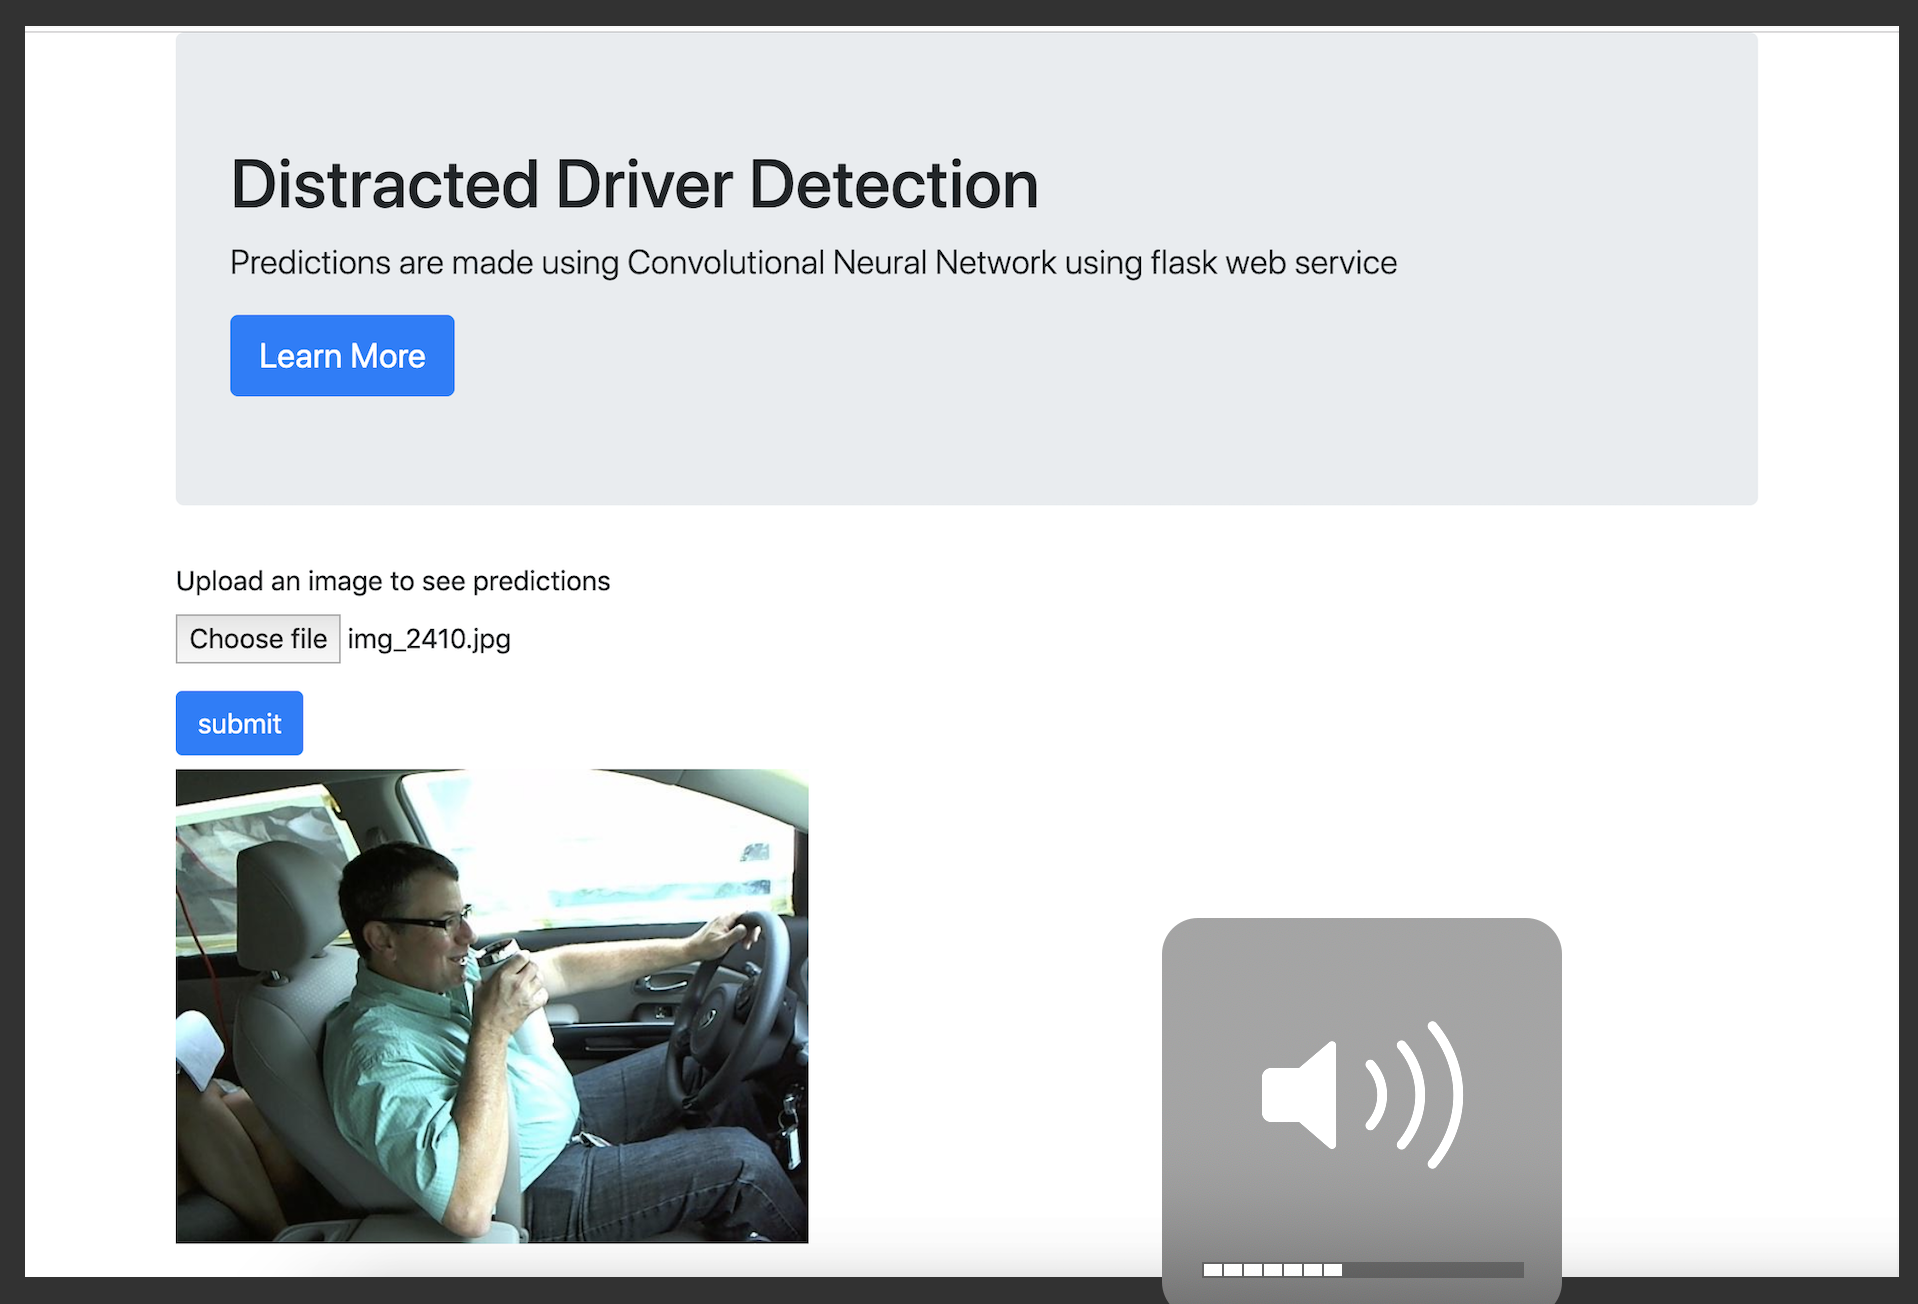
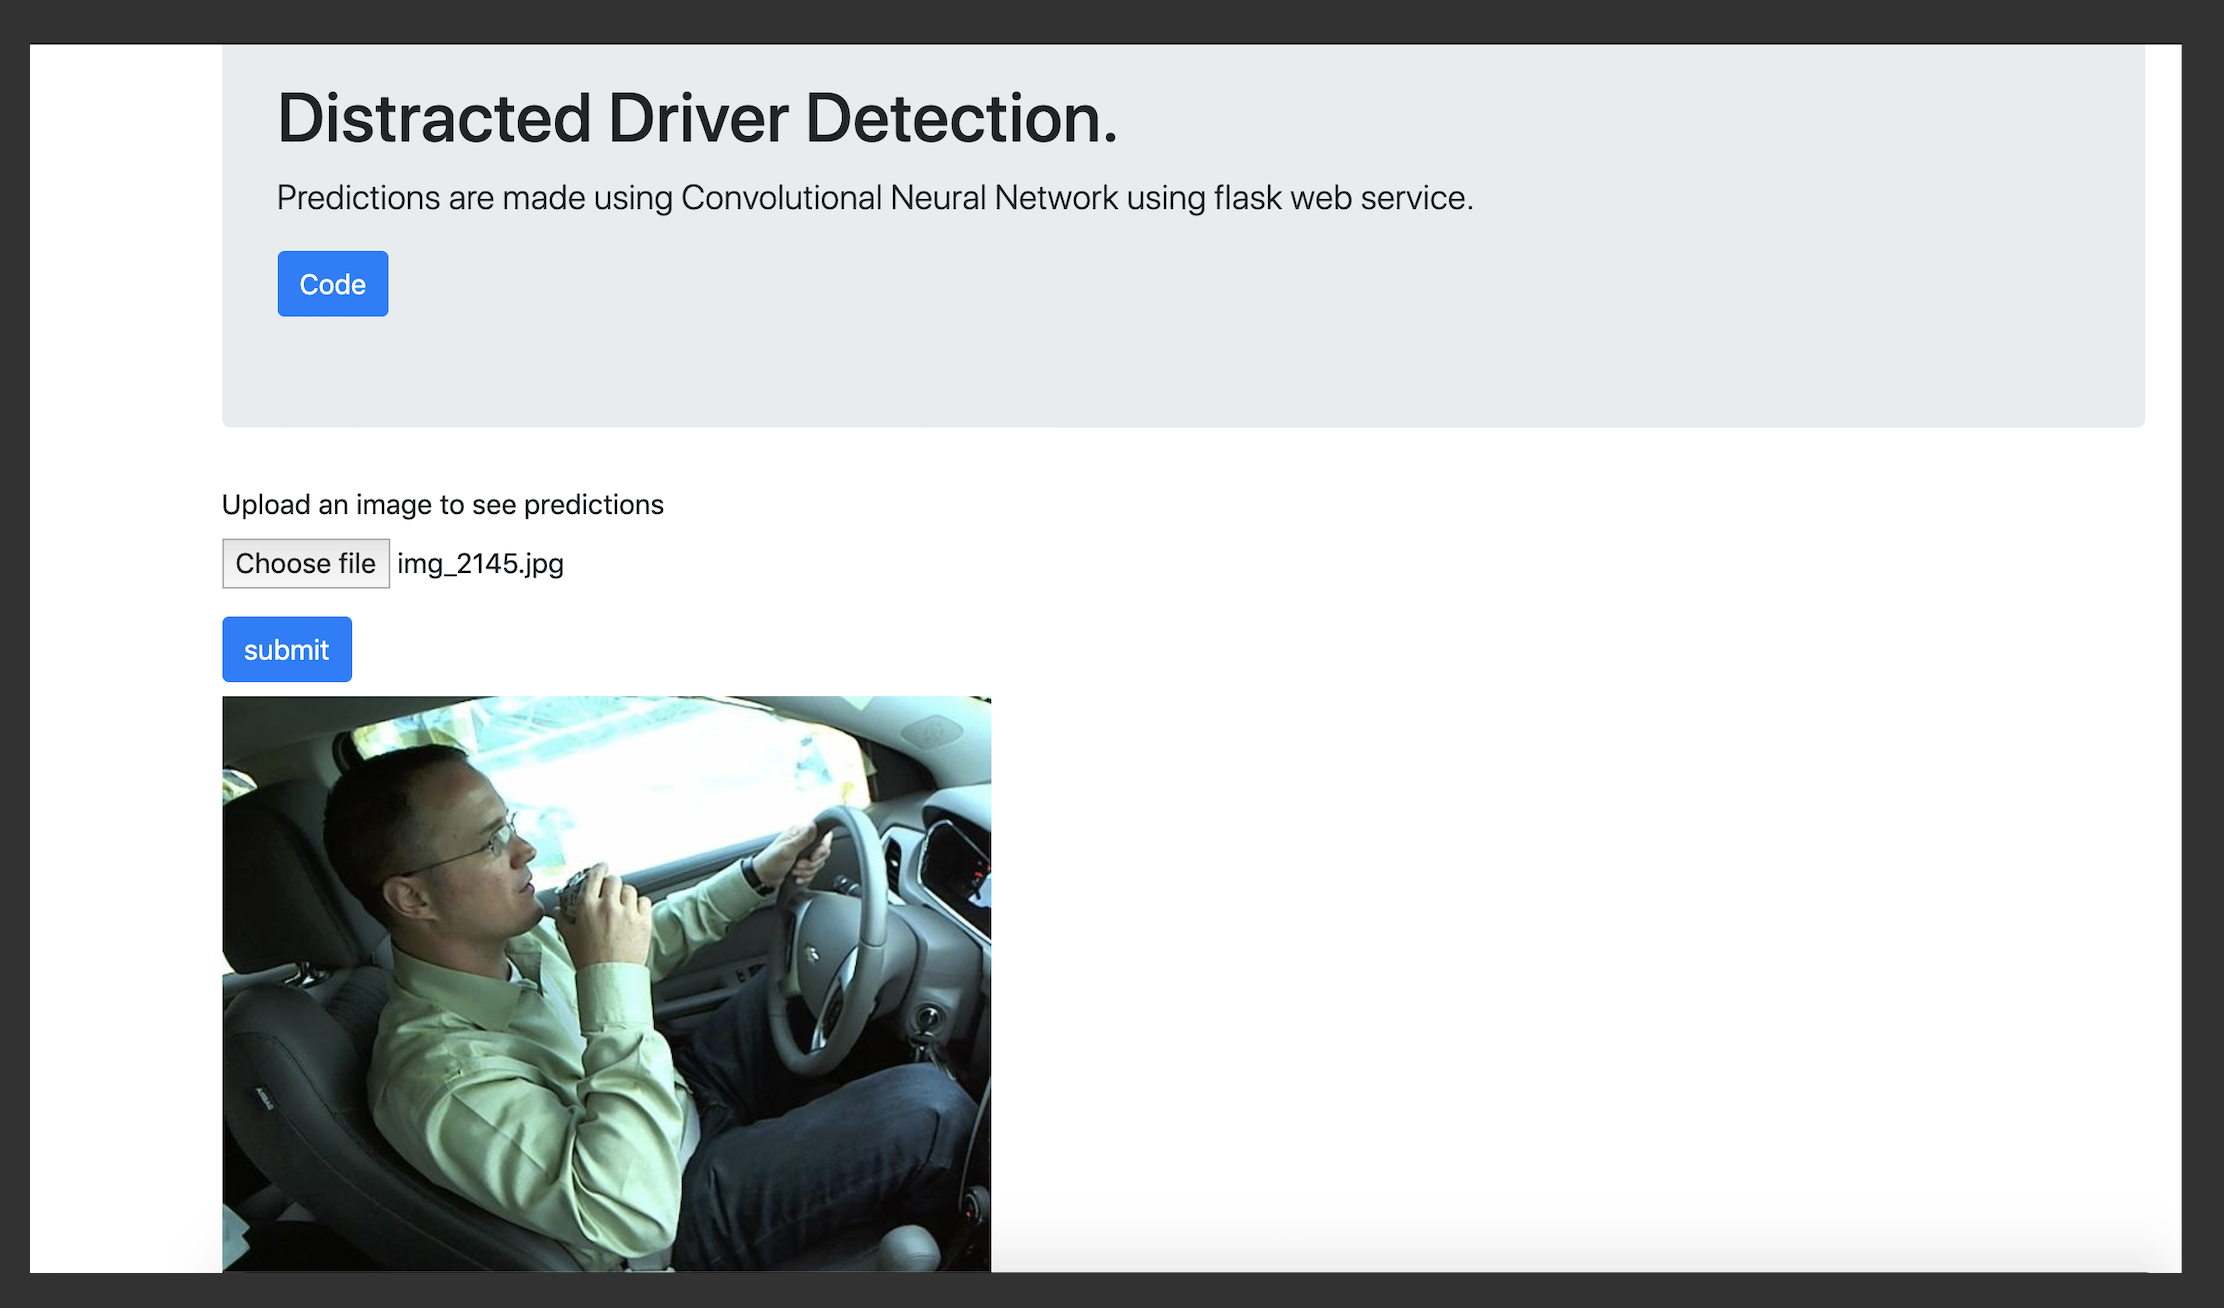
Minor changes

Changed region(s): [[0.0, 0.0, 1.0, 1.0]]

diff --git a/templates/index.html b/templates/index.html
@@ -19,7 +19,7 @@
         </div>
         <form target="_blank" action="/predict" method="post" enctype="multipart/form-data" class="my-2">
             <div class="form-group">
-                <label for="formFileControl">Upload an image to see predictions</label>
+                <label for="formFileControl">Upload an image to see predictions.</label>
                 <input type="file" class="form-control-file" id="formFileControl" name="img_form" required>
             </div>          
             <button type="submit" class="btn btn-primary" id="submitbtn">submit</button>
